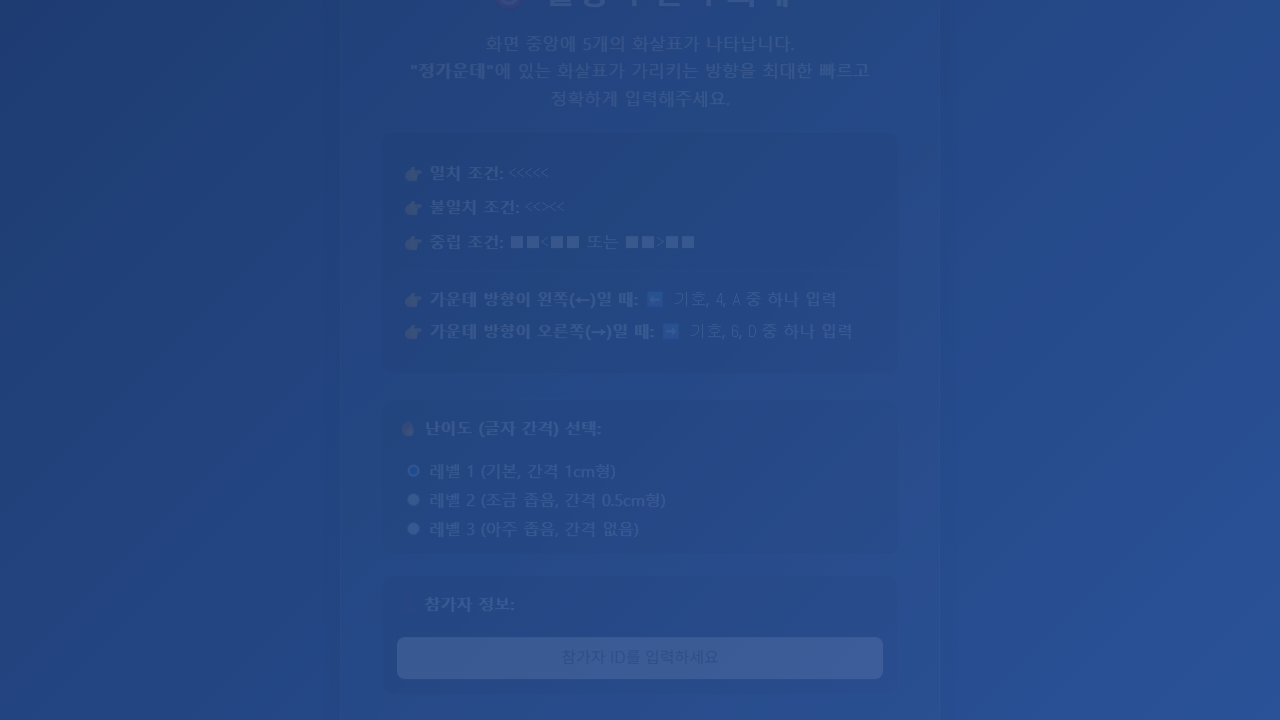
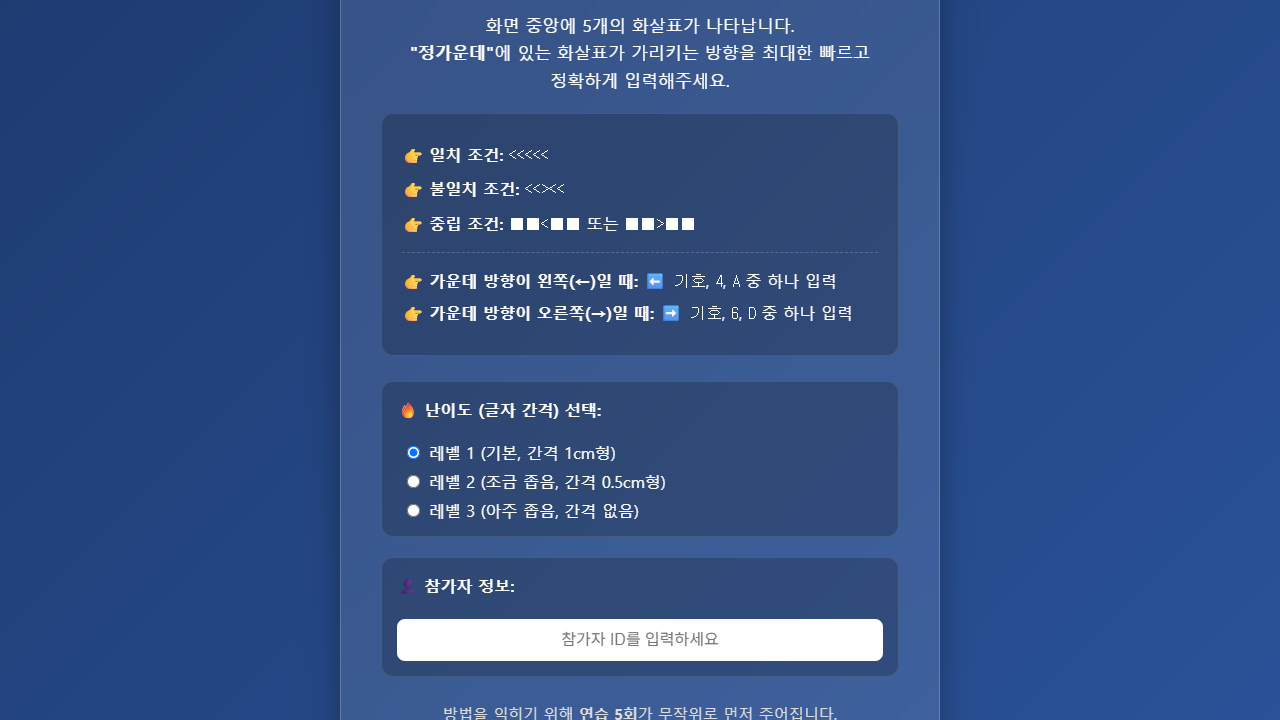
Sharpen experiment captures and add library app

diff --git a/app.js b/app.js
@@ -419,6 +419,20 @@ const projects = [
     summary: "최대 4명이 한 방에서 크레용으로 영역을 넓히는 실시간 멀티플레이 게임 프로젝트.",
     tags: ["multiplayer", "WebSocket", "territory"],
     note: "GitHub Pages 공개본은 프로젝트·실행 안내를 제공하며, 실시간 대전은 별도의 Node.js 서버 실행이 필요합니다."
+  },
+  {
+    id: "library_inventory_check",
+    title: "바코드 장서 점검",
+    repo: "library_inventory_check",
+    type: "tool",
+    status: "Published",
+    year: "2026",
+    launchUrl: "https://jeoungan.github.io/library_inventory_check/",
+    githubUrl: "https://github.com/jeoungan/library_inventory_check",
+    screenshot: "assets/screenshots/library_inventory_check.png",
+    summary: "카메라로 바코드를 연속 스캔하고, 카테고리별 목록을 관리해 TXT로 바로 저장하는 장서 점검 웹앱.",
+    tags: ["barcode", "library", "PWA"],
+    note: "GitHub Pages가 main 브랜치 기준으로 빌드되어 공개 실행 중이며, 카메라 스캔·수동 입력·TXT 저장을 지원합니다."
   }
 ];
 
